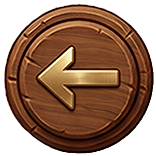
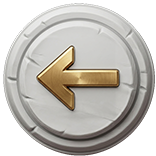
feat(game): update ui

diff --git a/phaser/scenes/stage-map.ts b/phaser/scenes/stage-map.ts
@@ -11,8 +11,7 @@ import {EventBus, PhaserEvents} from "../shared/event-bus";
 
 const assetConf = CandyCrushAssetConf;
 
-const NEAR_SCALE = 0.11;
-const FAR_SCALE = 0.075;
+const LEVEL_SCALE = 0.11;
 
 export class StageMapScene extends Phaser.Scene {
   constructor() {
@@ -37,12 +36,17 @@ export class StageMapScene extends Phaser.Scene {
 
     stops.forEach((stop, index) => {
       const isOpen = index < unlocked;
-      const depth = stops.length === 1 ? 0 : (index + 1) / (stops.length - 1);
-      const size = NEAR_SCALE + (FAR_SCALE - NEAR_SCALE) * depth;
-      const x = width * stop.x;
-      const y = height * stop.y;
 
-      this.#addLevelButton(x, y, size, index + 1, isOpen, isOpen && index === unlocked - 1, map, tint);
+      this.#addLevelButton(
+        width * stop.x,
+        height * stop.y,
+        LEVEL_SCALE,
+        index + 1,
+        isOpen,
+        isOpen && index === unlocked - 1,
+        map,
+        tint,
+      );
     });
 
     this.#addHeader();
